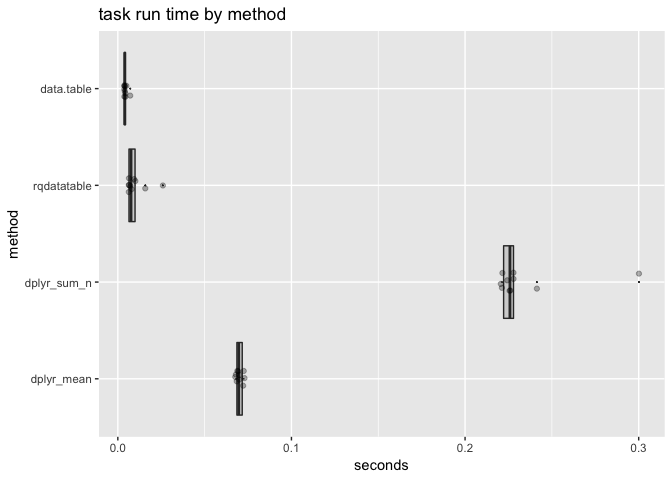
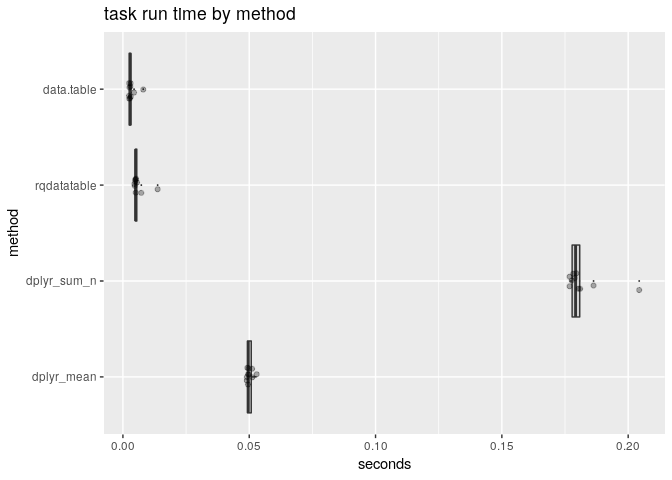
move to xps 13

diff --git a/extras/TimingGroupedMean.md b/extras/TimingGroupedMean.md
@@ -16,13 +16,13 @@ These timings are be of [small task large number of repetition breed](https://cr
 -   The time reported for `dplyr` on the `sum()/n()` examples is over a second to process 10,000 rows. This is unbelievably slow, and we fail to reproduce it in our run.
 -   The time reported for `dplyr` on the `mean()` examples is about 0.01 seconds. This is a plausible time for this task (about 3 times as long as `data.table` would take). But it is much faster than is typical for `dplyr`. We fail to reproduce it in our run, we see `dplyr` taking closer to 0.07 seconds on this task (or about seven times slower).
 
-Let's try to reproduce these timings on a 2014 Mac Mini, and also compare to some other packages: [`data.table`](https://CRAN.R-project.org/package=data.table) and [`rqdatatable`](https://CRAN.R-project.org/package=rqdatatable).
+Let's try to reproduce these timings on a 2018 Dell XPS 13 Intel Core i5, 16GB Ram running Ubuntu 18.04, and also compare to some other packages: [`data.table`](https://CRAN.R-project.org/package=data.table) and [`rqdatatable`](https://CRAN.R-project.org/package=rqdatatable).
 
 In this reproduction attempt we see:
 
--   The `dplyr` time being around 0.07 seconds. This is about 7 times slower than claimed.
--   The `dplyr` `sum()/n()` time is about 0.24 seconds, about 5 times faster than claimed.
--   The `data.table` time being around 0.0045 seconds. This is twice as fast as the `dplyr` claims, and over ten times as fast as the actual observed `dplyr` behavior.
+-   The `dplyr` time being around 0.05 seconds. This is about 5 times slower than claimed.
+-   The `dplyr` `sum()/n()` time is about 0.2 seconds, about 5 times faster than claimed.
+-   The `data.table` time being around 0.003 seconds. This is about three times as fast as the `dplyr` claims, and over ten times as fast as the actual observed `dplyr` behavior.
 
 All code for this benchmark is available [here](https://github.com/WinVector/rqdatatable/blob/master/extras/TimingGroupedMean.Rmd) and [here](https://github.com/WinVector/rqdatatable/blob/master/extras/TimingGroupedMean.md).
 
@@ -49,7 +49,7 @@ dt <- as.data.table(d)
 R.version.string
 ```
 
-    ## [1] "R version 3.5.0 (2018-04-23)"
+    ## [1] "R version 3.5.1 (2018-07-02)"
 
 ``` r
 packageVersion("dplyr")
@@ -109,16 +109,16 @@ print(timings)
 ```
 
     ## Unit: milliseconds
-    ##         expr        min         lq       mean     median        uq
-    ##   dplyr_mean  67.640873  68.498888  69.995510  69.626779  72.18329
-    ##  dplyr_sum_n 220.584872 221.494582 233.662024 225.848176 227.90039
-    ##  rqdatatable   6.317965   6.412551  10.195935   7.589595  10.08765
-    ##   data.table   3.732272   3.772199   4.380995   4.017843   4.32459
-    ##         max neval cld
-    ##   72.958002    10  b 
-    ##  300.157056    10   c
-    ##   25.943704    10 a  
-    ##    7.132294    10 a
+    ##         expr        min         lq       mean     median         uq
+    ##   dplyr_mean  49.044216  49.255479  50.118332  49.613274  51.134114
+    ##  dplyr_sum_n 176.818689 177.665255 181.987126 179.174948 180.996072
+    ##  rqdatatable   4.542537   4.930214   6.095619   5.016496   5.599747
+    ##   data.table   2.425419   2.489957   3.433191   2.874385   3.147625
+    ##         max neval
+    ##   52.935500    10
+    ##  204.358822    10
+    ##   13.749040    10
+    ##    8.048678    10
 
 ``` r
 res <- as.data.frame(timings)
@@ -134,10 +134,10 @@ res %.>%
 
 | method        |  mean\_seconds|
 |:--------------|--------------:|
-| dplyr\_sum\_n |      0.2336620|
-| rqdatatable   |      0.0101959|
-| data.table    |      0.0043810|
-| dplyr\_mean   |      0.0699955|
+| dplyr\_mean   |      0.0501183|
+| data.table    |      0.0034332|
+| rqdatatable   |      0.0060956|
+| dplyr\_sum\_n |      0.1819871|
 
 ``` r
 WVPlots::ScatterBoxPlotH(
